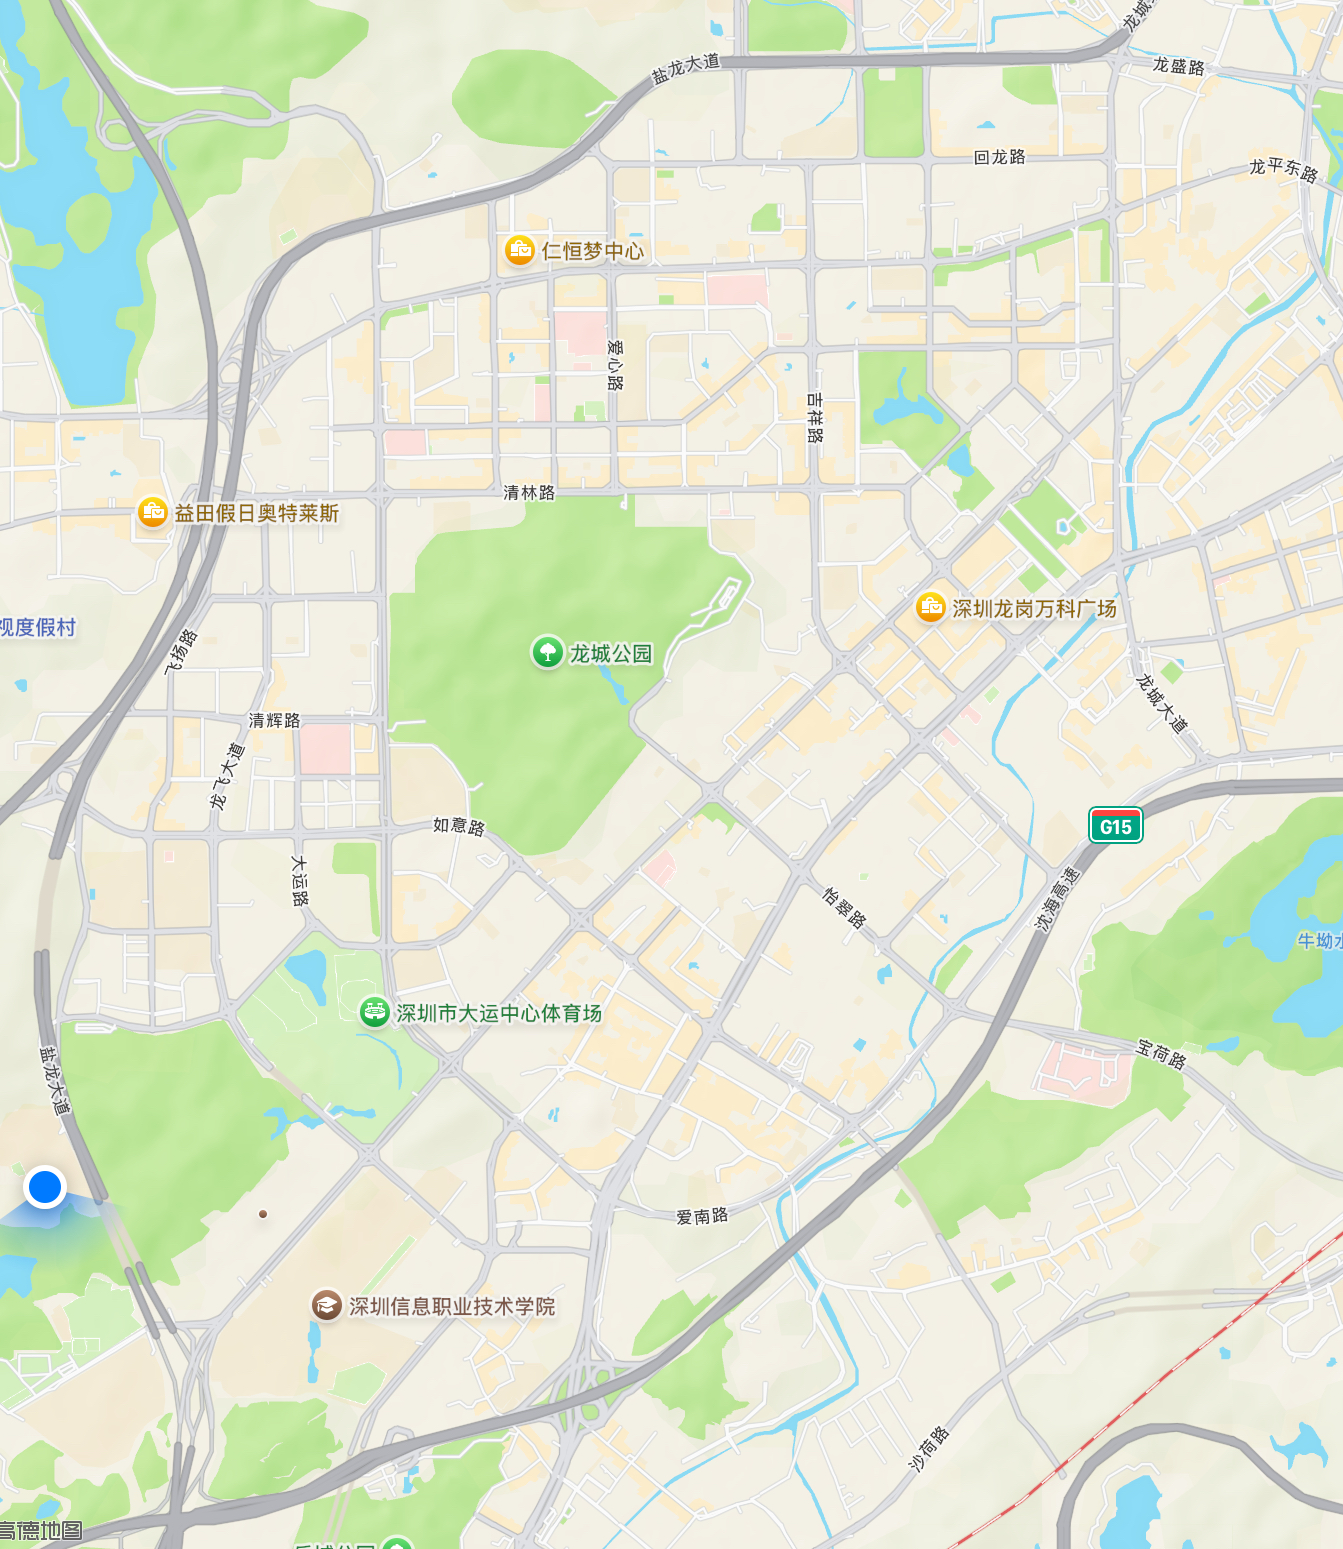
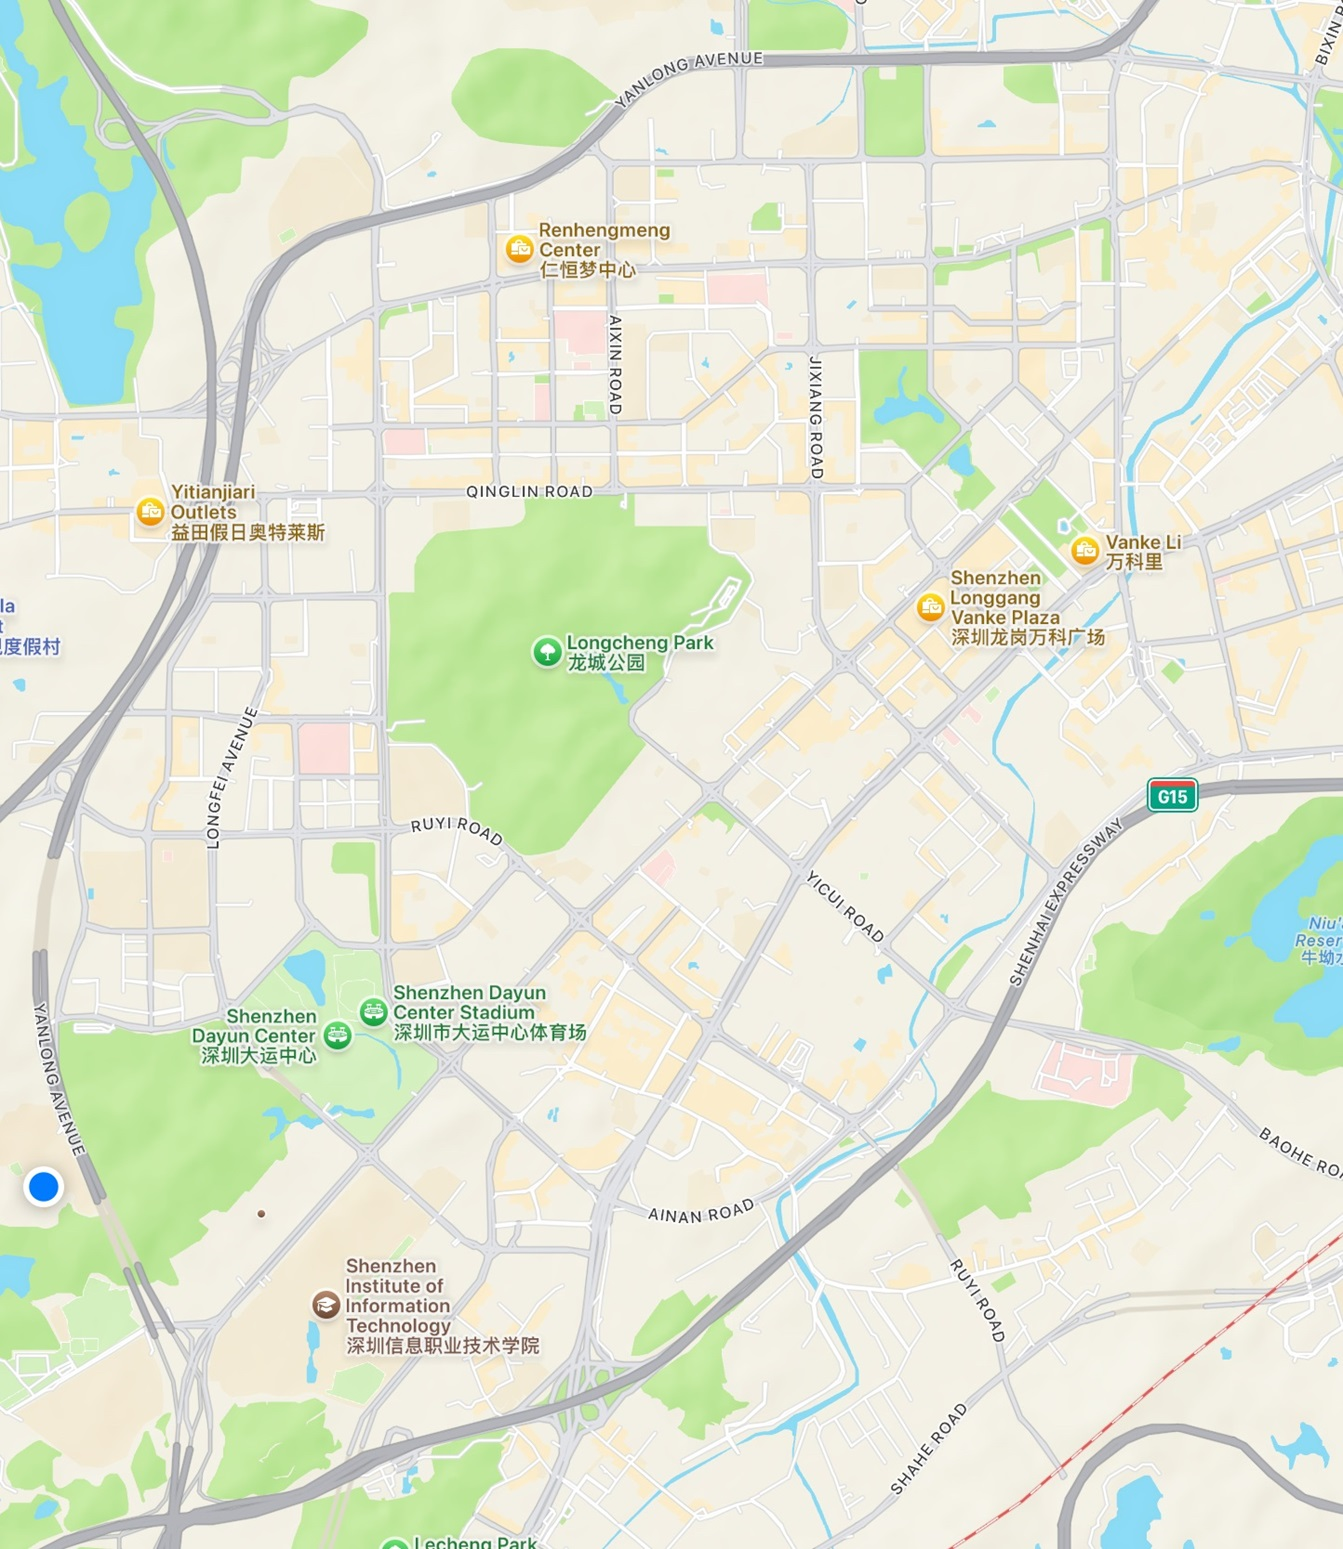
更换地图 bug修复
更换了地图（eng），修复了多重路径规划。现在暴雨和车祸模式下不会点击路径点。

diff --git a/Group Project/Map3180/gui/map_canvas.py b/Group Project/Map3180/gui/map_canvas.py
@@ -62,6 +62,7 @@ class MapCanvas(QGraphicsView):
         self.click_enabled = True
         self.highlighted_node = None
         self.highlighted_marker = None
+        self.path_completed = False  # 新增标志位
 
         # 连接信号槽
         self.path_service.calculation_failed.connect(self._show_error)
@@ -79,31 +80,34 @@ class MapCanvas(QGraphicsView):
     # -------------------- 核心交互方法 --------------------
     def mousePressEvent(self, event) -> None:
         global var_special_mode_active
-        
-        # 处理常规路径选择（左键点击）
-        if self.click_enabled and event.button() == Qt.LeftButton:
+
+        # 如果路径已完成且不在特殊模式下，忽略点击
+        if self.path_completed and var_special_mode_active == 0:
+            return
+        # 在特殊模式下禁用常规的起点终点选择
+        if var_special_mode_active == 0 and self.click_enabled and event.button() == Qt.LeftButton:
             scene_pos = self.mapToScene(event.pos())
             closest_id = self._get_closest_node(scene_pos)
-            
+
             # 普通模式下的节点选择
             if closest_id:
                 if not self.start_id:
                     self._handle_start_selection(closest_id, scene_pos)
-                else:
+                elif not self.end_id:  # 只有在终点未设置时才处理
                     self._handle_end_selection(closest_id, scene_pos)
-        
+
         # ================= 特殊模式处理 =================
         # 暴雨模式（var_special_mode_active == 1）
-        if var_special_mode_active == 1:
+        elif var_special_mode_active == 1:
             scene_pos = self.mapToScene(event.pos())
             self._clear_temp_markers()
-            
+
             # 创建半透明暴雨标记
-            scaled_icon = self.rain_icon.scaled(150, 150, 
-                Qt.AspectRatioMode.KeepAspectRatio,
-                Qt.SmoothTransformation
-            )
-            
+            scaled_icon = self.rain_icon.scaled(150, 150,
+                                                Qt.AspectRatioMode.KeepAspectRatio,
+                                                Qt.SmoothTransformation
+                                                )
+
             # 设置50%透明度
             transparent_icon = QPixmap(scaled_icon.size())
             transparent_icon.fill(Qt.transparent)
@@ -111,13 +115,13 @@ class MapCanvas(QGraphicsView):
             painter.setOpacity(0.8)
             painter.drawPixmap(0, 0, scaled_icon)
             painter.end()
-            
+
             # 添加标记到场景
             self.rain_marker = QGraphicsPixmapItem(transparent_icon)
-            self.rain_marker.setOffset(-scaled_icon.width()/2, -scaled_icon.height()/2)
+            self.rain_marker.setOffset(-scaled_icon.width() / 2, -scaled_icon.height() / 2)
             self.rain_marker.setPos(scene_pos)
             self.scene.addItem(self.rain_marker)
-            
+
             # 应用路径惩罚（中等影响）
             self.path_service.apply_penalty_area(
                 (scene_pos.x(), scene_pos.y()),
@@ -129,23 +133,23 @@ class MapCanvas(QGraphicsView):
         # 车祸模式（var_special_mode_active == 2）
         elif var_special_mode_active == 2:
             scene_pos = self.mapToScene(event.pos())
-            
+
             # 清理旧标记
             if self.accident_marker:
                 self.scene.removeItem(self.accident_marker)
-            
+
             # 创建高可见度车祸标记
             scaled_icon = self.accident_icon.scaled(150, 150,
-                Qt.AspectRatioMode.KeepAspectRatio,
-                Qt.SmoothTransformation
-            )
-            
+                                                    Qt.AspectRatioMode.KeepAspectRatio,
+                                                    Qt.SmoothTransformation
+                                                    )
+
             # 添加标记到场景（无需透明）
             self.accident_marker = QGraphicsPixmapItem(scaled_icon)
-            self.accident_marker.setOffset(-scaled_icon.width()/2, -scaled_icon.height()/2)
+            self.accident_marker.setOffset(-scaled_icon.width() / 2, -scaled_icon.height() / 2)
             self.accident_marker.setPos(scene_pos)
             self.scene.addItem(self.accident_marker)
-            
+
             # 应用强路径惩罚（完全避让）
             self.path_service.apply_penalty_area(
                 (scene_pos.x(), scene_pos.y()),
@@ -153,6 +157,7 @@ class MapCanvas(QGraphicsView):
                 penalty_factor=1000.0
             )
             var_special_mode_active = 0  # 退出特殊模式
+
     def mouseMoveEvent(self, event):
         if self.click_enabled:
             scene_pos = self.mapToScene(event.pos())
@@ -317,6 +322,14 @@ class MapCanvas(QGraphicsView):
             )
 
     # -------------------- 辅助方法 --------------------
+    def _handle_end_selection(self, node_id: int, pos: QPointF) -> None:
+        """处理终点选择"""
+        self.end_id = node_id
+        self._draw_node_marker(node_id, Qt.red)
+        print(f"终点选择: 节点{node_id} @ ({pos.x():.1f}, {pos.y():.1f})")
+        self.path_lines = self._start_calculation()
+        self.path_completed = True  # 设置路径完成标志
+
     def _get_closest_node(self, pos: QPointF) -> int | None:
         """获取最近节点ID（带阈值检测）"""
         min_dist = float('inf')
@@ -376,6 +389,7 @@ class MapCanvas(QGraphicsView):
         """增强版重置方法"""
         self.start_id = None
         self.end_id = None
+        self.path_completed = False  # 重置完成标志
         self.click_enabled = True
         global var_special_mode_active
         var_special_mode_active = 0
@@ -392,7 +406,7 @@ class MapCanvas(QGraphicsView):
 
         # 清空信息面板
         if hasattr(self, 'info_panel'):
-            self.info_panel.clear()  # 这个是清空面板的内容
+            self.info_panel.clear()
 
         self.path_service.reset_penalty()
 
